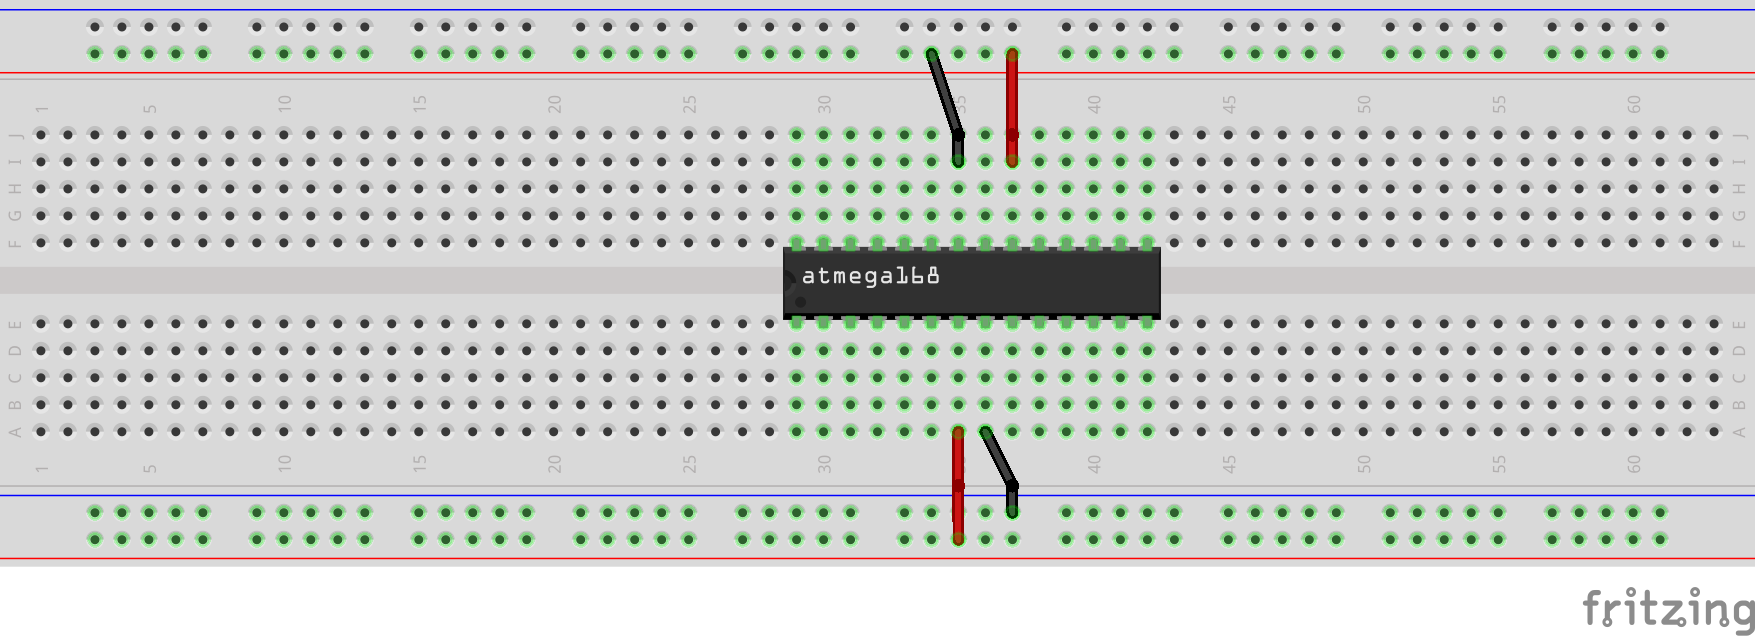
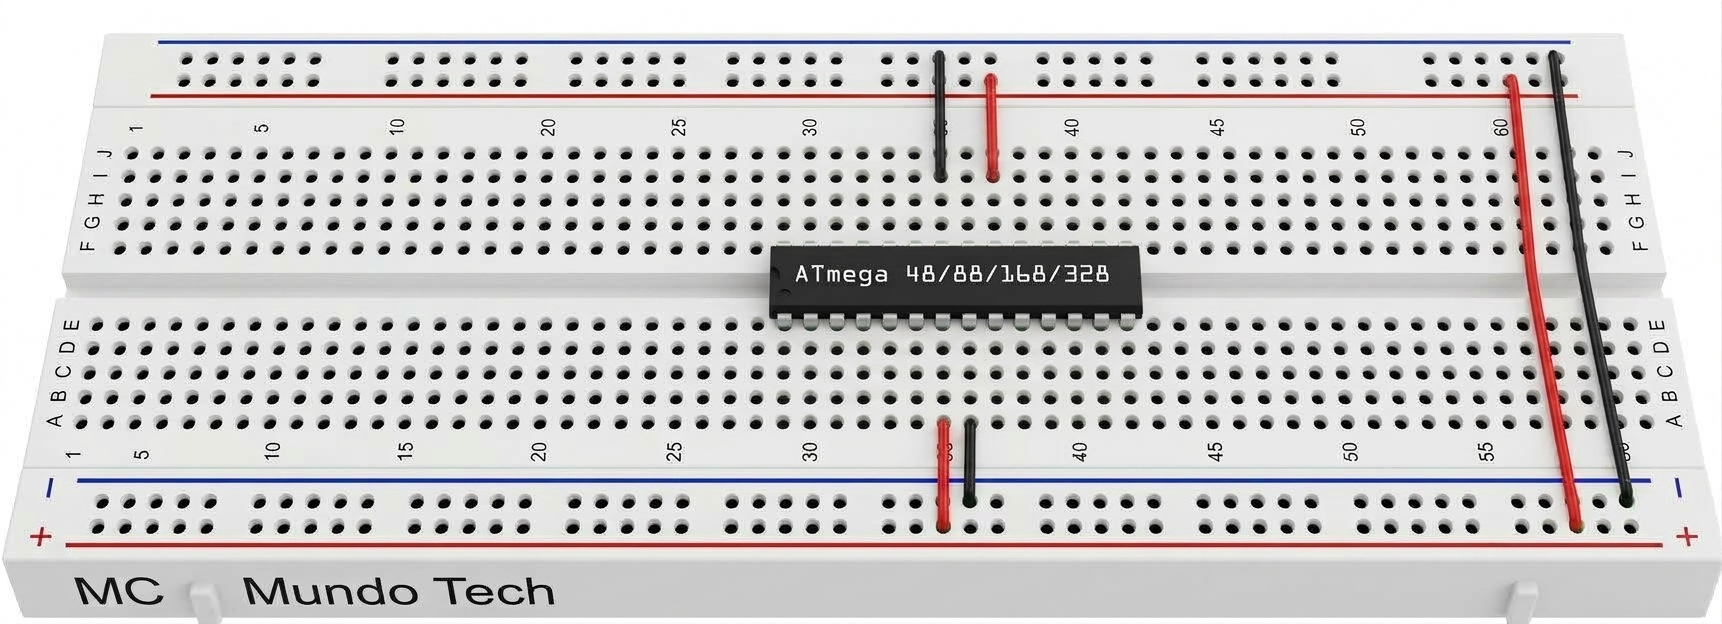
Control de Bits y Puerto salida. Actualizacion

diff --git a/microcontroladores/avr/Caracteristicas/RegistrosGPIO/index.html b/microcontroladores/avr/Caracteristicas/RegistrosGPIO/index.html
@@ -89,8 +89,36 @@ Pin Físico Chip:   PB7  PB6  PB5  PB4  PB3  PB2  PB1  PB0
         <h3>2.1. Configuración de Estados Lógicos de Dirección</h3>
         <ul>
             <li><strong>Asignar Salida (Output):</strong> Se escribe un uno (<code>1</code>) en el bit correspondiente del registro DDRx. Esto habilita los transistores de potencia internos para conmutar corriente hacia el exterior.</li>
-            <li><strong>Asignar Entrada (Input):</strong> Por defecto, tras un evento de encendido o reinicio por hardware (<em>Reset</em>), el sistema establece todos los bits de DDRx en cero (<code>0</code>). Esto coloca los pines automáticamente en modo entrada como medida de seguridad eléctrica.</li>
+            <li><strong>Asignar Entrada (Input):</strong> Se escribe un cero (<code>0</code>) en el bit correspondiente del registro DDRx. Esto coloca el pin en modo entrada.</li>
         </ul>
+
+        <p>
+            Por defecto, tras un evento de encendido o reinicio por hardware (<em>Reset</em>), el sistema establece todos los bits de DDRx en cero (<code>0</code>). Esto coloca los pines automáticamente en modo entrada como medida de seguridad eléctrica. Por lo tanto, la configuración solo requiere cambiar específicamente los pines de salida.
+        </p>
+        
+        <div class="table-container">
+        <table>
+            <thead>
+                <tr>
+                    <th>DDRX - Estado Lógico del Bit</th>
+                    <th>Orientación Lógica de Bit</th>
+                    <th>Orientación Lógica de la Corriente</th>
+                </tr>
+            </thead>
+            <tbody>
+                <tr>
+                    <td><strong>0</strong></td>
+                    <td><strong>SALIDA (Output)</strong></td>
+                    <td><strong>Corriente Fluye hacia el Exterior (Manejará una carga)</strong></td>
+                </tr>
+                <tr>
+                    <td><strong>1</strong></td>
+                    <td><strong>ENTRADA (Input)</strong></td>
+                    <td><strong>Corriente Fluye hacia el Interior (Leerá una señal)</strong></td>
+                </tr>
+            </tbody>
+        </table>
+        </div>
 
         <h3>2.2. Análisis de un Ejemplo Práctico de Asignación Directa</h3>
         <p>Consideremos la ejecución del siguiente comando en lenguaje C:</p>
@@ -109,25 +137,28 @@ Valor en DDRB:   0    0    0    0    0    0    1    0
             <thead>
                 <tr>
                     <th>Pin Físico</th>
+                    <th>Estado Lógico</th>
                     <th>Estado de Dirección Configurado</th>
+                    <th>Orientación Lógica de la Corriente</th>
                 </tr>
             </thead>
             <tbody>
                 <tr>
                     <td><strong>PB1</strong></td>
+                    <td><strong>1</strong></td>
                     <td><strong>SALIDA (Output)</strong></td>
+                    <td><strong>Corriente Fluye hacia el Exterior (Manejará una carga)</strong></td>
                 </tr>
                 <tr>
                     <td><strong>PB0, PB2–PB7</strong></td>
+                    <td><strong>0</strong></td>
                     <td><strong>ENTRADA (Input)</strong></td>
+                    <td><strong>Corriente Fluye hacia el Interior (Leerá una señal)</strong></td>
                 </tr>
             </tbody>
         </table>
         </div>
 
-        <h3>2.3. Inconvenientes de la Asignación Directa</h3>
-        <p>La asignación directa mediante literales binarios (<code>DDRB = 0b00000010;</code>) borra el estado previo de los 8 bits del puerto. En el desarrollo industrial de firmware, se prefiere modificar un único pin sin alterar la configuración de los pines vecinos utilizando operadores lógicos a nivel de bits (<em>bitwise operations</em>):</p>
-<pre><code>DDRB |= (1 &lt;&lt; PB1); // Configura PB1 como salida de forma no destructiva</code></pre>
     </section>
 
     <section>
@@ -138,7 +169,7 @@ Valor en DDRB:   0    0    0    0    0    0    1    0
         <p>Cuando un bit en DDRx está configurado como salida, el bit equivalente en PORTx controla el driver de salida de voltaje activo:</p>
         <ul>
             <li><strong>PORTx = 1 (Lógica Alta / High):</strong> El pin interno conmuta a <strong>VCC</strong> (usualmente 5 V o 3.3 V segun el circuito), inyectando voltaje y actuando como una fuente de corriente (<em>current source</em>).</li>
-            <li><strong>PORTx = 0 (Lógica Baja / Low):</strong> El pin interno conmuta a masa o tierra (<strong>GND / 0 V</strong>), actuando como un drena corriente (<em>current sink</em>).</li>
+            <li><strong>PORTx = 0 (Lógica Baja / Low):</strong> El pin interno conmuta a masa o tierra (<strong>GND / 0 V</strong>), actuando como un sumidero de corriente (<em>current sink</em>).</li>
         </ul>
 
         <h3>3.2. Comportamiento en Modo Entrada (DDRx = 0)</h3>
@@ -147,6 +178,41 @@ Valor en DDRB:   0    0    0    0    0    0    1    0
             <li><strong>PORTx = 1 (Pull-Up Activa):</strong> Conecta una resistencia de elevación interna (<em>pull-up resistor</em>) de entre 20 kΩ y 50 kΩ aproximadamente desde el pin hacia VCC. Esto garantiza que el pin lea un nivel '1' estable en reposo y evita lecturas erráticas sin consumir corriente apreciable.</li>
             <li><strong>PORTx = 0 (Alta Impedancia / Hi-Z):</strong> Desconecta la resistencia interna. El pin queda flotando eléctricamente, presentando una impedancia extremadamente alta (ideal para medir circuitos analógicos o buses externos sin alterar la señal).</li>
         </ul>
+
+        <div class="table-container">
+        <table>
+            <thead>
+                <tr>
+                    <th>Bit DDRx</th>
+                    <th>Bit PORTx</th>
+                    <th>Estado Físico y Comportamiento Electrónico</th>
+                </tr>
+            </thead>
+            <tbody>
+                <tr>
+                    <td><strong>0</strong> <br> (Entrada)</td>
+                    <td><strong>0</strong> <br> (Alta Impedancia) </td>
+                    <td><strong>Entrada en Alta Impedancia (Hi-Z):</strong> El pin flota eléctricamente. El estado medido en PINx depende exclusivamente de la tensión aplicada por el circuito exterior. Es ideal para leer sensores externos que ya proveen su propia señal fuerte.</td>
+                </tr>
+                <tr>
+                    <td><strong>0</strong> <br> (Entrada)</td>
+                    <td><strong>1</strong> <br> (Pull-Up Activo)</td>
+                    <td><strong>Entrada con Resistencia Pull-Up Activa:</strong> La resistencia interna mantiene el pin ligado a VCC. Esta es la configuración clásica para conectar pulsadores a tierra. </td>
+                </tr>
+                <tr>
+                    <td><strong>1</strong> <br> (Salida)</td>
+                    <td><strong>0</strong> <br> (GND. Lógica Baja)</td>                    
+                    <td><strong>Salida Lógica BAJA (GND / 0 V):</strong> Conduce tierra de forma activa. El pin actúa como un sumidero de corriente (sink), conectando internamente la carga a GND</td>
+                </tr>
+                <tr>
+                    <td><strong>1</strong> <br> (Salida)</td>
+                    <td><strong>1</strong><br> (VCC. Lógica Alta)</td>                    
+                    <td><strong>Salida Lógica ALTA (VCC / 5 V o 3.3 V):</strong> Inyecta voltaje activo.</td>
+                </tr>
+            </tbody>
+        </table>
+        </div>
+        
     </section>
 
     <section>
@@ -182,28 +248,28 @@ Valor en DDRB:   0    0    0    0    0    0    1    0
             </thead>
             <tbody>
                 <tr>
-                    <td><strong>0</strong></td>
-                    <td><strong>0</strong></td>
+                    <td><strong>0</strong> <br> (Entrada)</td>
+                    <td><strong>0</strong> <br> (Alta Impedancia) </td>
                     <td><strong>Lectura real (0 o 1)</strong></td>
-                    <td><strong>Entrada en Alta Impedancia (Hi-Z):</strong> El pin flota eléctricamente. El estado medido en PINx depende exclusivamente de la tensión aplicada por el circuito exterior.</td>
+                    <td><strong>Entrada en Alta Impedancia (Hi-Z):</strong> El pin flota eléctricamente. Es ideal para leer sensores externos que ya proveen su propia señal fuerte. El estado medido en PINx depende exclusivamente de la tensión aplicada por el circuito exterior.</td>
                 </tr>
                 <tr>
-                    <td><strong>0</strong></td>
-                    <td><strong>1</strong></td>
+                    <td><strong>0</strong> <br> (Entrada)</td>
+                    <td><strong>1</strong> <br> (Pull-Up Activo)</td>
                     <td><strong>Lectura real (1 por defecto)</strong></td>
-                    <td><strong>Entrada con Resistencia Pull-Up Activa:</strong> La resistencia interna mantiene el pin ligado a VCC. PINx lee 1 en reposo y 0 si un pulsador externo lo deriva a masa (GND).</td>
+                    <td><strong>Entrada con Resistencia Pull-Up Activa:</strong> La resistencia interna  mantiene el pin ligado a VCC. Esta es la configuración clásica para conectar pulsadores a tierra. La resistencia interna (típicamente de entre 20kΩ y 50kΩ en AVR) asegura un '1' lógico cuando el botón no está presionado. PINx lee 1 en reposo y 0 si un pulsador externo lo deriva a masa (GND).</td>
                 </tr>
                 <tr>
-                    <td><strong>1</strong></td>
-                    <td><strong>0</strong></td>
+                    <td><strong>1</strong> <br> (Salida)</td>
+                    <td><strong>0</strong> <br> (GND. Lógica Baja)</td>
                     <td><strong>0 (ó 1 tras Toggle)</strong></td>
-                    <td><strong>Salida Lógica BAJA (GND / 0 V):</strong> Conduce tierra de forma activa. Si se escribe un 1 en el bit correspondiente de PINx, el pin conmuta a 5 V por hardware.</td>
+                    <td><strong>Salida Lógica BAJA (GND / 0 V):</strong> Conduce tierra de forma activa. El pin actúa como un sumidero de corriente (sink), conectando internamente la carga a GND.Si se escribe un 1 en el bit correspondiente de PINx, el pin conmuta a 5 V por hardware.</td>
                 </tr>
                 <tr>
-                    <td><strong>1</strong></td>
-                    <td><strong>1</strong></td>
+                    <td><strong>1</strong> <br> (Salida)</td>
+                    <td><strong>1</strong><br> (VCC. Lógica Alta)</td>
                     <td><strong>1 (ó 0 tras Toggle)</strong></td>
-                    <td><strong>Salida Lógica ALTA (VCC / 5 V):</strong> Inyecta voltaje activo. Si se escribe un 1 en el bit correspondiente de PINx, el pin conmuta a 0 V por hardware.</td>
+                    <td><strong>Salida Lógica ALTA (VCC / 5 V o 3.3 V):</strong> Inyecta voltaje activo. El pin actúa como una fuente de corriente (source), entregando el voltaje de alimentación del chip.Si se escribe un 1 en el bit correspondiente de PINx, el pin conmuta a 0 V por hardware.</td>
                 </tr>
             </tbody>
         </table>

diff --git a/microcontroladores/avr/programacion/codificacion/controlBitsC/index.html b/microcontroladores/avr/programacion/codificacion/controlBitsC/index.html
@@ -42,15 +42,16 @@
             <p>
                 La programación de microcontroladores AVR se basa en el manejo directo de los registros de hardware
             </p>
+
             <p>
-                Controlar el microcontrolador significa escribir o leer valores en estos registros (como DDRB, PORTB,PINBX) para producir efectos físicos en el hardware, como configurar un pin como salida o establecer un voltaje.
+                Cada microcontrolador AVR contiene un conjunto de registros de 8 bits que representan la configuración y el estado de los periféricos internos, como puertos de entrada/salida, temporizadores, convertidores analógico-digitales, entre otros. Estos registros son accesibles mediante direcciones de memoria específicas y se utilizan para controlar el comportamiento del microcontrolador.
             </p>
-            
             <p>
-                En la programación de microcontroladores AVR, los registros de hardware se representan en C como variables globales predefinidas. Sin embargo, a diferencia de una variable convencional en RAM, la manera exacta en que aplicamos operaciones sobre estos registros determina la estabilidad del firmware, la integridad de los periféricos y la previsibilidad del hardware.
-            </p> 
+                Controlar el microcontrolador significa escribir o leer valores en estos registros (como DDRB, PORTB,PINBX) para producir efectos físicos en el hardware, como configurar un pin como salida o establecer un voltaje. Para ello debemos aprender un concepto fundamental de la programación específica de microcontroladores: <strong> cómo activar y desactivar bits individuales dentro de un registro de hardware</strong>.
+            </p>
+         
             <p>
-                Existen dos métodos fundamentales para manipular bits en C: la <strong>asignación directa</strong> y la <strong>manipulación de bits (<em>bit twidding</em>) mediante máscaras</strong>. Cada enfoque tiene ventajas y desventajas, y su elección depende del contexto de programación y de los requisitos de seguridad y modularidad del firmware.
+                Existen dos métodos fundamentales para activar y desactivar bits individuales dentro de un registro de funciones especiales: la <strong>asignación directa</strong> y la <strong>manipulación de bits (<em>bit twidding</em>) mediante máscaras</strong>. Cada enfoque tiene ventajas y desventajas, y su elección depende del contexto de programación y de los requisitos de seguridad y modularidad del firmware.
             </p>
             </section>
 
@@ -66,9 +67,16 @@
 
         <p>Esta operación evalúa y transfiere el patrón bit a bit directamente al registro:</p>
         <ul>
-            <li><strong>Valor Asignado:</strong> El literal <code>0b00000010</code> (equivalente a 2 en decimal) sitúa un uno (<code>1</code>) lógico únicamente en la posición correspondiente al pin PB1 (índice 1) y establece ceros (<code>0</code>) en las siete posiciones restantes.</li>
+            <li><strong>Valor Asignado:</strong> El literal <code>0b00000010</code> sitúa un uno (<code>1</code>) lógico únicamente en la posición correspondiente al pin PB1 (índice 1) y establece ceros (<code>0</code>) en las siete posiciones restantes.</li>
             <li><strong>Efecto Final en Hardware:</strong> Se configura únicamente el pin PB1 como salida digital, mientras que los pines PB0 y del PB2 al PB7 son forzados a operar como entradas.</li>
         </ul>
+<pre><code>PORTB = 0b00001000;</code></pre>
+        <p>Esta operación evalúa y transfiere el patrón bit a bit directamente al registro:</p>
+        <ul>
+            <li><strong>Valor Asignado:</strong> El literal <code>0b00001000</code> sitúa un uno (<code>1</code>) lógico únicamente en la posición correspondiente al pin PB3 (índice 3) y establece ceros (<code>0</code>) en las siete posiciones restantes.</li>
+            <li><strong>Efecto Final en Hardware:</strong> Como DDRB ha establecido como salida sólo el bit PB1. El registro PORTB establece un nivel bajo en PB1, conectándolo a masa o tierra (GND / 0 V). Como DDRB ha definido como entradas los bits PB0 y PB2 - PB7,  PORTB conecta una resistencia pull-up de entre 20 kΩ y 50 kΩ aproximadamente desde el pin PB3 hacia VCC. Esto garantiza que el pin lea un nivel '1' estable en reposo y evita lecturas erráticas sin consumir corriente apreciable en el bit PB3; mientras que los pines PB0, PB2 y del PB4 al PB7 permanecen en nivel bajo (GND / 0V), estos pines quedan flotando eléctricamente, presentando una impedancia extremadamente alta (ideal para medir circuitos analógicos o buses externos sin alterar la señal)</li> 
+        </ul>
+
 
         <h3>2.2. Asignación Directa con Máscaras por Desplazamiento (&lt;&lt;)</h3>
         <p>En lugar de escribir literales completos, es común construir máscaras dinámicas mediante el operador de desplazamiento de bits (<em>bit shifting</em>). El desplazamiento reubica la posición de los bits hacia la izquierda o derecha dentro del registro:</p>
@@ -91,13 +99,22 @@
         <p> 
             La asignación directa (<code>=</code>) es el método más intuitivo para comprender la correspondencia biunívoca entre las posiciones del código en C y las 8 patillas del integrado al iniciar el estudio de la arquitectura AVR.
         </p>
+
+        <p>
+            La asignación directa de un numero binaro o de una máscara funciona, siempre que sepamos con certeza que queremos que todos los demás LED tengan un estado específico. Pero ¿qué ocurre si necesitas encender o apagar un LED determinado sin afectar a ninguno de los demás?
+        </p>
+
         <p> 
-            En arquitecturas modulares, utilizar asignación directa dentro del flujo principal del programa representa una mala práctica severa. Si un módulo periférico configuró previamente un pin para una interfaz de comunicación o un sensor, ejecutar <code>DDRB = (1 &lt;&lt; PB1)</code> en otra sección del programa borrará la configuración de los otros 7 pines, interrumpiendo buses de datos y desactivando periféricos críticos.</li>
+            En arquitecturas modulares, utilizar asignación directa dentro del flujo principal del programa representa una mala práctica severa. Si un módulo periférico configuró previamente un pin para una interfaz de comunicación o un sensor, ejecutar <code>DDRB = (1 &lt;&lt; PB1)</code> en otra sección del programa borrará la configuración de los otros 7 pines, interrumpiendo buses de datos y desactivando periféricos críticos.</pi>
         </p>
         </section>
 
         <section>
         <h2>3. MÉTODO DE MANIPULACIÓN DE BITS (BIT TWIDDING) POR MÁSCARAS</h2>
+        
+        <p>
+            Las operaciones lógicas a nivel de bit (bitwise logical operations) —la llamada manipulación de bits (bit twiddling)— permiten modificar un solo bit de un byte de registro sin tener que ocuparnos explícitamente de los demás.
+        </p>
 
         <p> Cuando encendemos un LED, un motor u otro actuador conectado a la salida de PB3, usando numeros, scribimos algo parecido a: </p>
 <pre><code class="language-c"> PORTB = 0b00001000; </code></pre>

diff --git a/microcontroladores/avr/programacion/codificacion/controlPuerto/index.html b/microcontroladores/avr/programacion/codificacion/controlPuerto/index.html
@@ -30,7 +30,7 @@
     <main>        
         <article>            
             <header class="article-header">
-            <h1>CONTROL DE TODO UN PUERTO CON uMC AVR</h1>
+            <h1>CONTROL DE TODO UN PUERTO DE uMC AVR COMO SALIDAS DIGITALES</h1>
             
             </header>
                         
@@ -49,7 +49,7 @@
     <li>Comprender el funcionamiento básico de un MOSFET 2N7000 como interruptor electrónico.</li>
     <li>Comprender cómo la señal <code>RESET</code>, activa en bajo, puede utilizarse para controlar el aislamiento del circuito de LED.</li>
     <li>Configurar los ocho pines de un puerto AVR como salidas digitales.</li>
-    <li>Controlar ocho LED mediante los ocho bits de un puerto.</li>
+    <li>Controlar ocho LEDs mediante los ocho bits de un puerto.</li>
     <li>Comprender la relación entre el nivel lógico de una salida y el estado físico de un LED según su conexión.</li>
     <li>Representar patrones luminosos mediante valores binarios escritos en <code>PORTB</code>.</li>
 </ol>
@@ -60,7 +60,7 @@
 
 <p>El control de un LED mediante una salida digital es uno de los primeros ejercicios para comprender la relación entre el software y el hardware de un microcontrolador.</p>
 
-<p>Cuando el número de LED aumenta, el mismo principio puede extenderse para controlar varios pines de un puerto simultáneamente. En un AVR con un puerto de ocho bits, un único registro puede utilizarse para controlar ocho señales digitales.</p>
+<p>Cuando el número de LEDs aumenta, el mismo principio puede extenderse para controlar varios pines de un puerto simultáneamente. En un AVR con un puerto de ocho bits, un único registro puede utilizarse para controlar ocho señales digitales.</p>
 
 <p>Sin embargo, al construir un circuito real aparecen otros aspectos que deben tenerse en cuenta. Los LED necesitan una resistencia limitadora de corriente y, además, algunos de los pines utilizados para controlarlos pueden compartir funciones con las señales utilizadas durante la programación del microcontrolador.</p>
 
